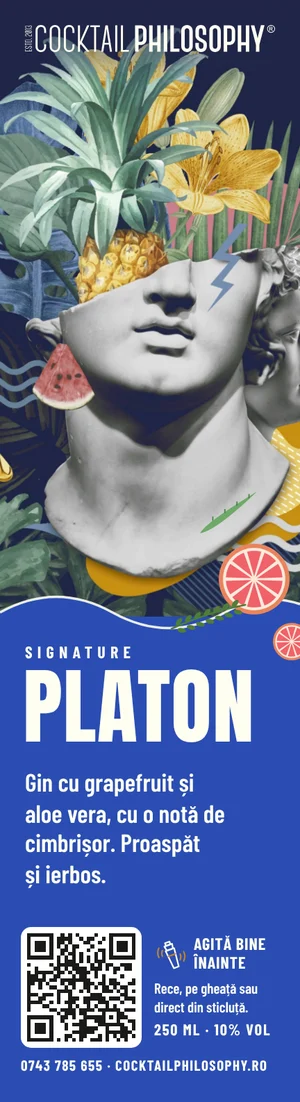
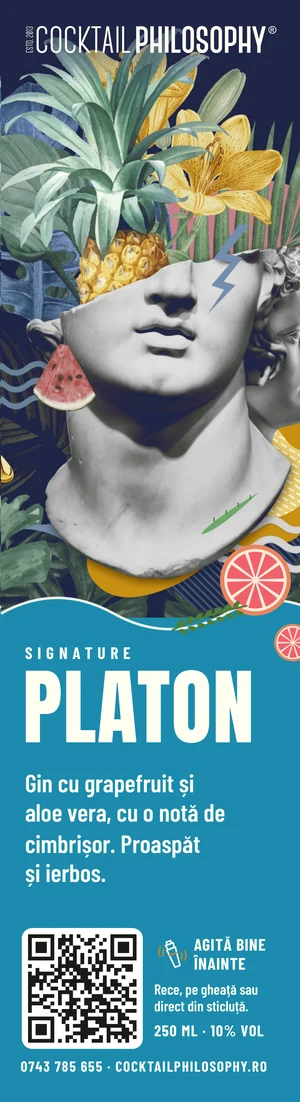
Sticluțe: Platon în albastru-turcoaz
Claude-Session: https://claude.ai/code/session_019cz3UWyXc353Qx4Y8Jorpx

diff --git a/site-nou/sticlute.html b/site-nou/sticlute.html
@@ -35,7 +35,7 @@
 .sticla h3{font-size:38px;line-height:1}
 .sticla p{font-family:var(--cond);font-weight:600;font-size:18px;line-height:1.35}
 .sticla small{font-family:var(--cond);font-weight:700;font-size:15px;letter-spacing:.1em;text-transform:uppercase;opacity:.9}
-.st-platon{background:#2B4DB3}.st-erasmus{background:#3F8C52}.st-harmony{background:#D2477D}
+.st-platon{background:#1C8BAE}.st-erasmus{background:#3F8C52}.st-harmony{background:#D2477D}
 .st-whiskey{background:#EA7A2F;color:var(--ink)}.st-pornstar{background:#F3C845;color:var(--ink)}
 </style>
 <!-- SEO -->
